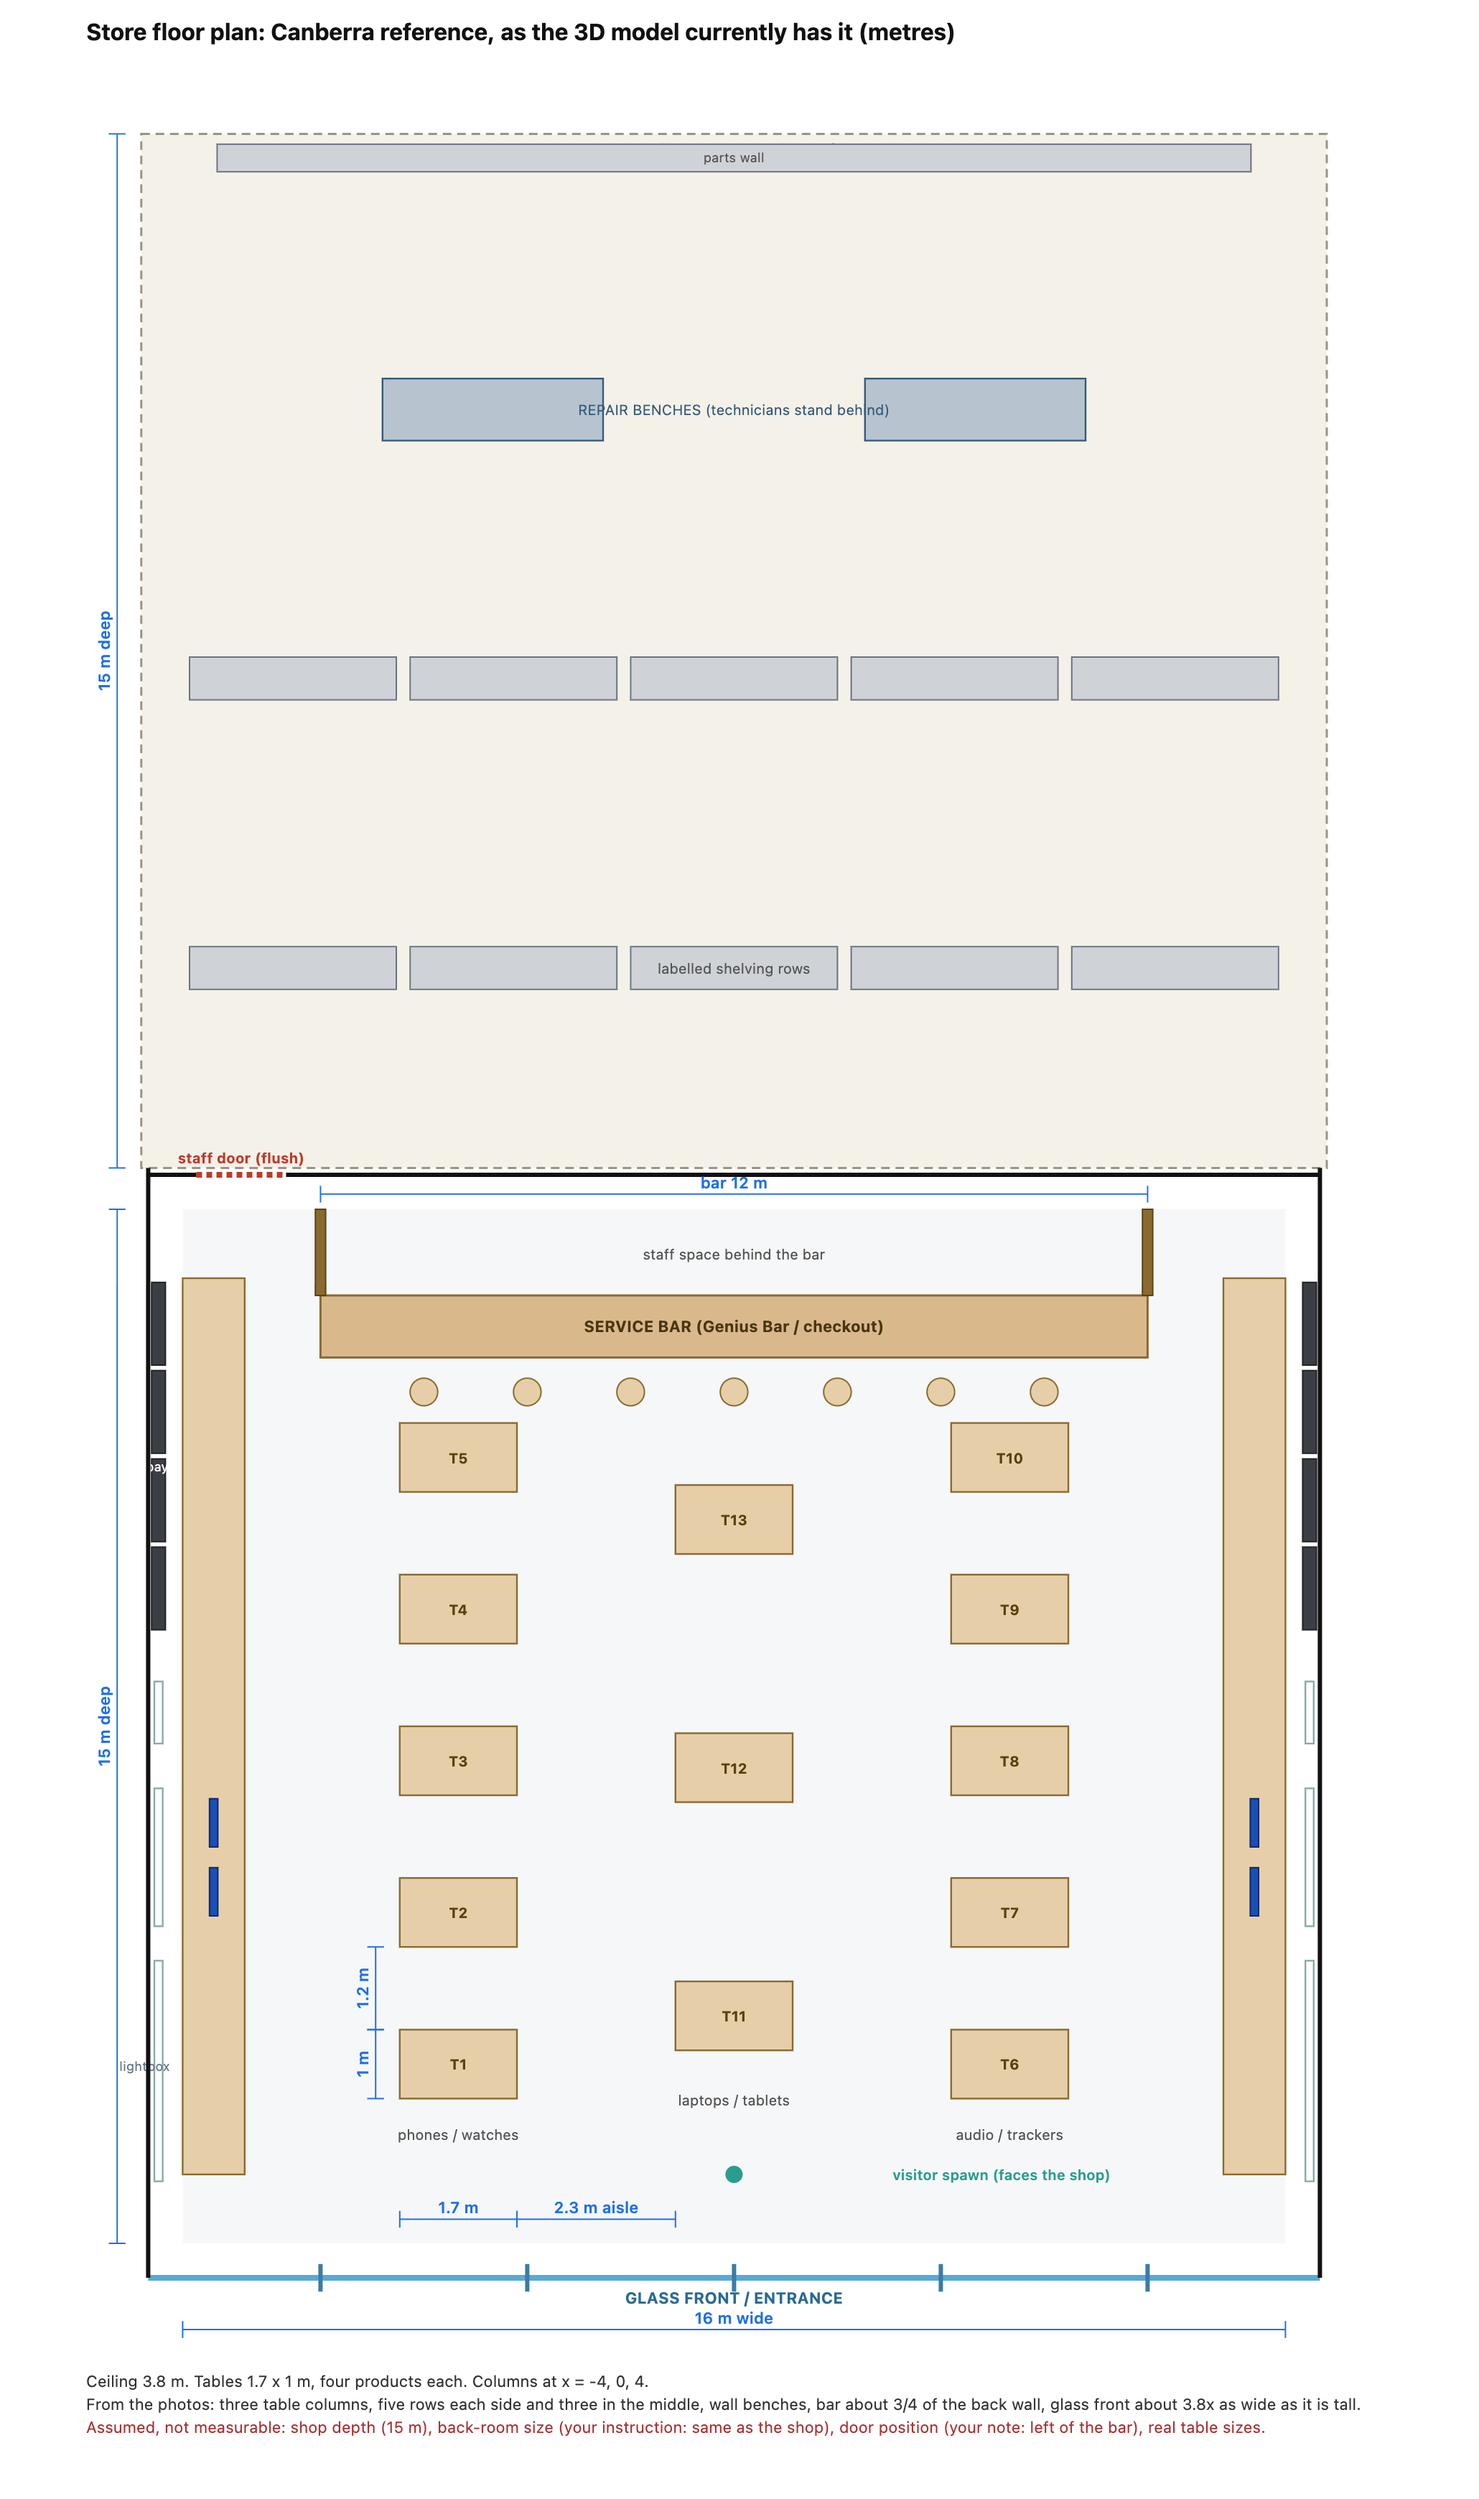
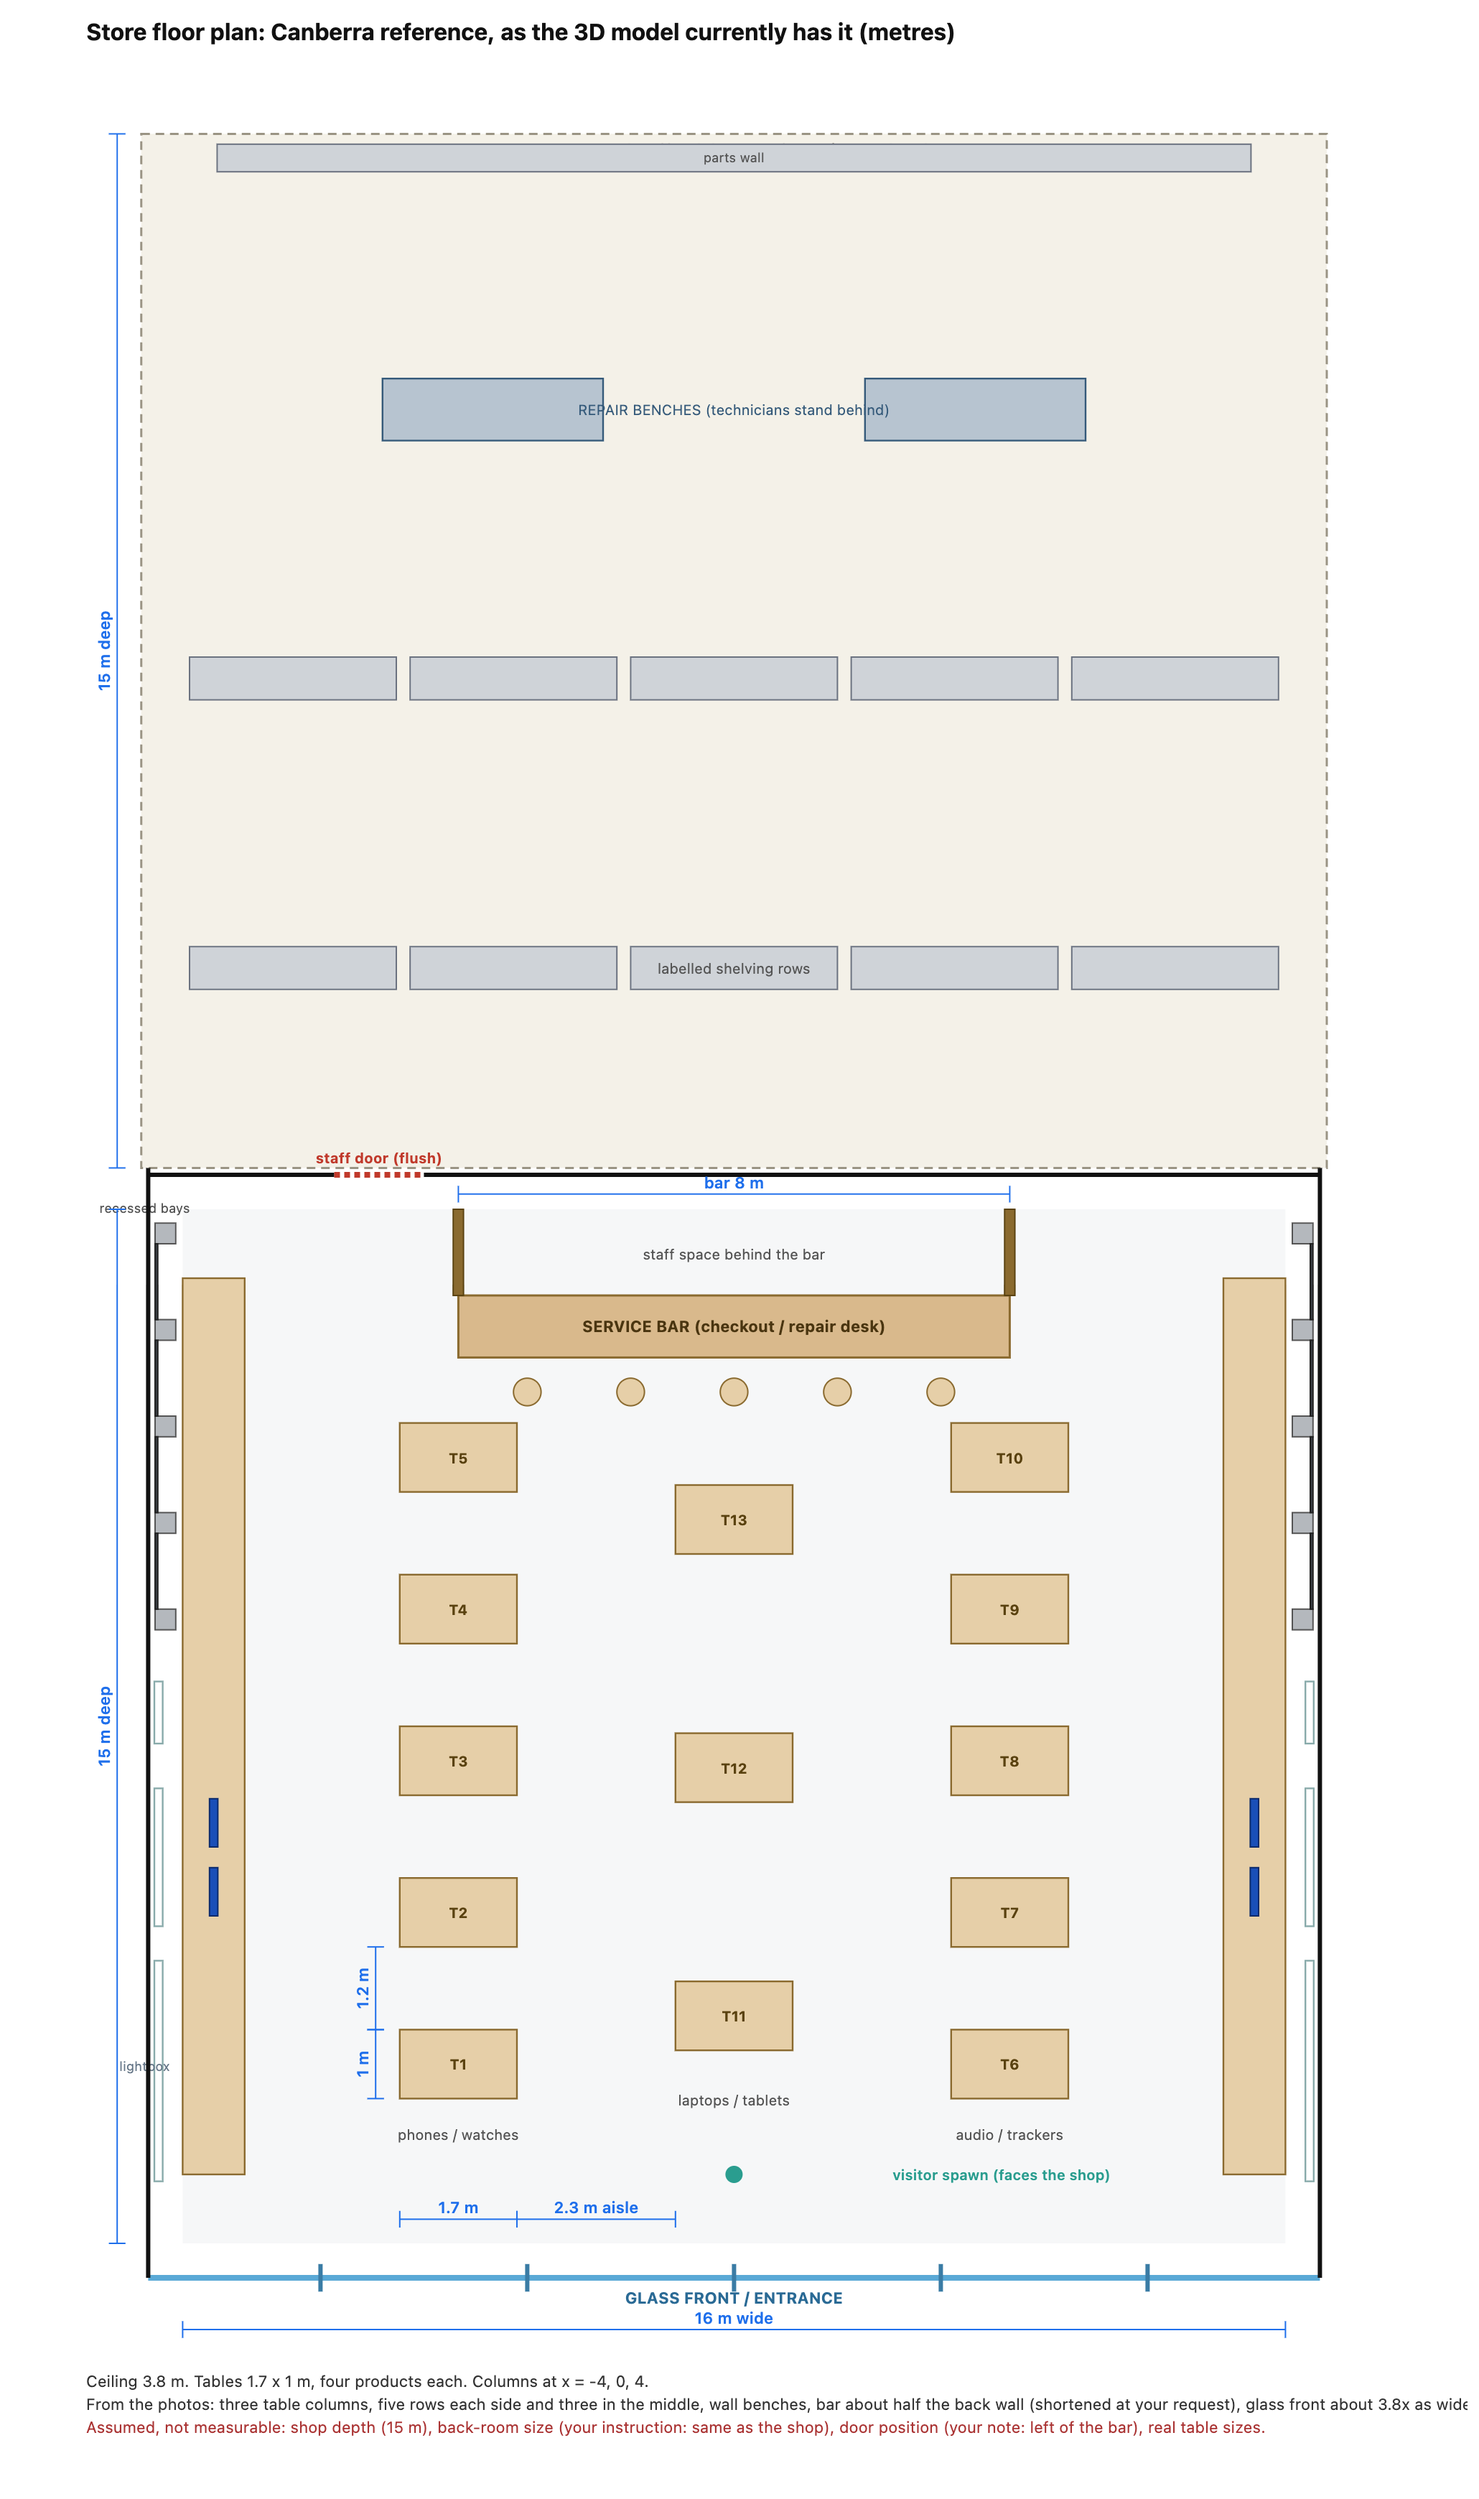
Update the floor plan for the shorter bar and recessed bays
Claude-Session: https://claude.ai/code/session_018WNwp4Ejv6UC2CSSzBpXR6

diff --git a/docs/blueprint/README.md b/docs/blueprint/README.md
@@ -27,11 +27,12 @@ absolute sizes are assumptions, because a photo has no scale.
 | 6 | Table size | 1.7 x 1.0 m | About a tenth of the width across (photo); depth assumed | Low | [ ] |
 | 7 | Products per table | 4 (2 each long side), 1.7 m apart | Your instruction: room for one person per product | Design choice | [ ] |
 | 8 | Wall benches | 0.9 deep, 13 m long, both side walls | Photo | Medium | [ ] |
-| 9 | Service bar | 12 m x 0.9, 7 stools | Photo: about three quarters of the back wall | Medium | [ ] |
+| 9 | Service bar | 8 m x 0.9, 5 stools | Photo showed about three quarters of the back wall; shortened to half at your request | Your call | [ ] |
 | 10 | Staff space behind bar | 1.65 m deep, closed by partitions | Your description | Medium | [ ] |
-| 11 | Staff door | 1.3 m wide, left of the bar | Your description | Medium | [ ] |
+| 10b | Back wall above the bar | three black screens with a service mark between them | Photo and your note | Medium | [ ] |
+| 11 | Staff door | 1.3 m wide, immediately left of the bar | Your description | Medium | [ ] |
 | 12 | Side-wall lightboxes | three per wall: 3.2, 2.0, 0.9 m wide | Close-up photo | Medium | [ ] |
-| 13 | Dark product bays | four per wall, 1.2 m wide each | Close-up photo | Medium | [ ] |
+| 13 | Product bays | four per wall, 1.1 m wide, recessed 0.3 m between full-height piers (floor to ceiling) | Second close-up photo | Medium | [ ] |
 | 14 | Back room | 17 x 15 m, 2 shelving rows, 2 repair benches | Your instruction: same footprint as the shop | Design choice | [ ] |
 
 When this is approved the checks become dimension checks against these rows
